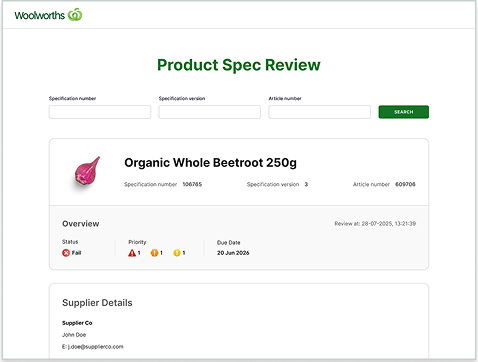
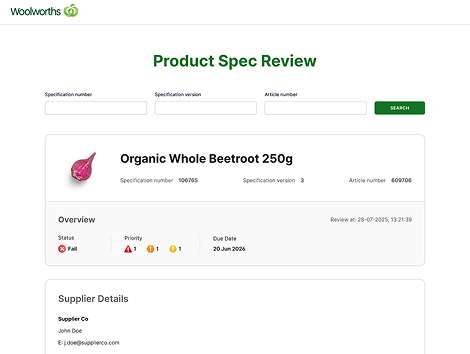
Internal Products 1

diff --git a/components/work/CaseStudyNav.tsx b/components/work/CaseStudyNav.tsx
@@ -12,23 +12,27 @@ type CaseStudyNavProps = {
 
 export default function CaseStudyNav({ items }: CaseStudyNavProps) {
   return (
-    <div className="fixed inset-x-4 bottom-6 z-50 flex justify-center md:bottom-8">
-      <nav className="no-scrollbar flex max-w-full snap-x snap-mandatory items-center gap-2 overflow-x-auto rounded-full border border-ink bg-ink p-2 shadow-lg">
-        <span
-          className="flex h-9 w-9 shrink-0 snap-start items-center justify-center rounded-full bg-white text-ink"
-          aria-hidden="true"
+    <div className="pointer-events-none fixed inset-x-0 bottom-0 z-50 flex justify-center px-4 pb-6 md:pb-8">
+      <nav className="pointer-events-auto flex max-w-full items-center gap-2 rounded-full border border-ink bg-ink p-2 shadow-lg">
+        <Link
+          href="/"
+          className="group flex h-9 w-9 shrink-0 items-center justify-center rounded-full bg-white text-ink"
+          aria-label="An Ny Lam — Home"
         >
           <Logo className="h-5 w-5" />
-        </span>
-        {items.map((item) => (
-          <Link
-            key={item.label}
-            href={item.href}
-            className="shrink-0 snap-start rounded-full border border-white/25 px-4 py-2 text-sm text-white transition-colors duration-200 hover:bg-white/10"
-          >
-            {item.label}
-          </Link>
-        ))}
+        </Link>
+
+        <div className="no-scrollbar flex min-w-0 shrink snap-x snap-mandatory items-center gap-2 overflow-x-auto">
+          {items.map((item) => (
+            <Link
+              key={item.label}
+              href={item.href}
+              className="shrink-0 snap-start rounded-full border border-white/25 px-4 py-2 text-sm text-white transition-colors duration-200 hover:bg-white/10"
+            >
+              {item.label}
+            </Link>
+          ))}
+        </div>
       </nav>
     </div>
   );

diff --git a/components/work/PlatformCard.tsx b/components/work/PlatformCard.tsx
@@ -11,7 +11,6 @@ type PlatformCardProps = {
   description: string;
   tags: string[];
   href: string;
-  showImageBorder?: boolean;
 };
 
 export default function PlatformCard({
@@ -23,19 +22,19 @@ export default function PlatformCard({
   description,
   tags,
   href,
-  showImageBorder = true,
 }: PlatformCardProps) {
   return (
-    <Link href={href} className="group block p-8">
-      <div
-        className={`overflow-hidden rounded-lg ${showImageBorder ? "border border-border" : ""}`}
-      >
+    <Link
+      href={href}
+      className="group flex h-full flex-col p-8 transition-colors duration-200 hover:bg-surface/60"
+    >
+      <div className="overflow-hidden rounded-lg border border-border">
         <Image
           src={image}
           alt={title}
           width={imageWidth}
           height={imageHeight}
-          className="w-full object-cover"
+          className="w-full object-cover transition-transform duration-500 ease-out group-hover:scale-[1.03]"
         />
       </div>
 
@@ -45,15 +44,19 @@ export default function PlatformCard({
       </h3>
       <p className="mt-3 text-body">{description}</p>
 
-      <div className="mt-5 flex flex-wrap gap-2.5">
-        {tags.map((tag) => (
-          <Tag key={tag}>{tag}</Tag>
-        ))}
-      </div>
+      <div className="mt-auto pt-5">
+        <div className="flex flex-wrap gap-2.5">
+          {tags.map((tag) => (
+            <Tag key={tag} variant="outline">
+              {tag}
+            </Tag>
+          ))}
+        </div>
 
-      <span className="mt-6 block text-center font-semibold text-teal transition-opacity duration-200 group-hover:opacity-80">
-        View product
-      </span>
+        <span className="mt-6 block text-center font-semibold text-teal transition-opacity duration-200 group-hover:opacity-80">
+          View product
+        </span>
+      </div>
     </Link>
   );
 }

diff --git a/components/ui/Tag.tsx b/components/ui/Tag.tsx
@@ -1,10 +1,15 @@
 type TagProps = {
   children: React.ReactNode;
+  variant?: "solid" | "outline";
 };
 
-export default function Tag({ children }: TagProps) {
+export default function Tag({ children, variant = "solid" }: TagProps) {
+  const background = variant === "solid" ? "bg-surface" : "bg-transparent";
+
   return (
-    <span className="inline-flex items-center rounded-md border border-border bg-surface px-3 py-1.5 text-[11px] font-semibold uppercase tracking-wider text-ink">
+    <span
+      className={`inline-flex items-center rounded-md border border-border ${background} px-3 py-1.5 text-[11px] font-semibold uppercase tracking-wider text-ink`}
+    >
       {children}
     </span>
   );

diff --git a/tailwind.config.ts b/tailwind.config.ts
@@ -35,9 +35,15 @@ const config: Config = {
           "0%": { opacity: "0", transform: "translateY(12px)" },
           "100%": { opacity: "1", transform: "translateY(0)" },
         },
+        logoPop: {
+          "0%": { transform: "translateY(0) scale(1) rotate(0deg)" },
+          "75%": { transform: "translateY(-2.6px) scale(1.055) rotate(-2.1deg)" },
+          "100%": { transform: "translateY(-2px) scale(1.04) rotate(-1.5deg)" },
+        },
       },
       animation: {
         fadeUp: "fadeUp 0.6s ease-out both",
+        "logo-pop": "logoPop 320ms cubic-bezier(0.22, 1, 0.36, 1) forwards",
       },
     },
   },

diff --git a/components/ui/Logo.tsx b/components/ui/Logo.tsx
@@ -8,7 +8,7 @@ export default function Logo({ className = "h-9 w-9" }: LogoProps) {
       viewBox="0 0 40 40"
       fill="none"
       xmlns="http://www.w3.org/2000/svg"
-      className={className}
+      className={`origin-center [transform:translateY(0)_scale(1)_rotate(0deg)] transition-transform duration-[320ms] ease-[cubic-bezier(0.22,1,0.36,1)] group-hover:animate-logo-pop group-focus-visible:animate-logo-pop ${className}`}
       aria-hidden="true"
     >
       <path

diff --git a/components/layout/SiteHeader.tsx b/components/layout/SiteHeader.tsx
@@ -18,7 +18,7 @@ export default function SiteHeader() {
   return (
     <header className="sticky top-0 z-50 border-b border-border bg-bg/95 backdrop-blur">
       <div className="container-content flex h-20 items-center justify-between md:h-24">
-        <Link href="/" className="text-ink" aria-label="An Ny Lam — Home">
+        <Link href="/" className="group text-ink" aria-label="An Ny Lam — Home">
           <Logo className="h-9 w-9" />
         </Link>
 

diff --git a/app/work/woolworths-internal-products/page.tsx b/app/work/woolworths-internal-products/page.tsx
@@ -48,13 +48,12 @@ const platforms = [
   {
     number: "03",
     image: "/images/work/woolworths-internal-products/product-03.png",
-    imageWidth: 478,
-    imageHeight: 362,
+    imageWidth: 470,
+    imageHeight: 354,
     title: "Compliance Review Platform",
     description: "Making AI-generated compliance reports understandable.",
     tags: ["Information Architecture"],
     href: "#project-03",
-    showImageBorder: false,
   },
 ];
 

diff --git a/components/layout/SiteFooter.tsx b/components/layout/SiteFooter.tsx
@@ -18,7 +18,7 @@ export default function SiteFooter() {
       <div className="container-content flex flex-col items-center gap-6 py-8 md:grid md:grid-cols-3 md:items-center md:gap-4">
         <Link
           href="/"
-          className="text-ink md:justify-self-start"
+          className="group text-ink md:justify-self-start"
           aria-label="An Ny Lam — Home"
         >
           <Logo className="h-7 w-7" />

diff --git a/components/work/IconCard.tsx b/components/work/IconCard.tsx
@@ -8,7 +8,7 @@ type IconCardProps = {
 
 export default function IconCard({ title, children, icon }: IconCardProps) {
   return (
-    <div className="border border-border p-8">
+    <div className="rounded-xl2 border border-border p-8">
       <div className="flex items-center gap-3">
         {icon && (
           <Image src={icon} alt="" width={24} height={24} aria-hidden="true" />

diff --git a/components/work/CaseStudyHero.tsx b/components/work/CaseStudyHero.tsx
@@ -61,7 +61,7 @@ export default function CaseStudyHero({
 
       <CaseStudyNav items={navItems} />
 
-      <div className="mt-10 flex gap-3 bg-black/[0.04] p-6 md:mt-14 md:p-8">
+      <div className="mt-10 flex gap-3 rounded-xl2 bg-black/[0.04] p-6 md:mt-14 md:p-8">
         <svg
           width="18"
           height="18"

diff --git a/CLAUDE.md b/CLAUDE.md
@@ -58,7 +58,19 @@ There is no test suite configured in this repo.
   `/about` and `/contact` nav links have no pages yet).
 - Use the `container-content` utility class (defined in `app/globals.css`) for
   page-width containers rather than re-deriving max-width/padding per section.
+  Case-study (`/work/*`) pages use `container-work` instead (same pattern, capped
+  at `max-w-6xl` to match that content column's measured width).
 - Respects `prefers-reduced-motion` globally (see `app/globals.css`).
+- **Border radius is a standing design-system rule, not a per-Figma-frame
+  choice.** Every card/block-style container (bordered content blocks, note/
+  disclaimer boxes, grid wrappers) gets rounded corners — `rounded-xl2` (20px)
+  for these bordered block containers, matching `ProjectGrid`'s wrapper. Image
+  treatments follow their own established radii (`rounded-2xl` for hero
+  banners, `rounded-xl`/`rounded-lg` for card thumbnails). If a Figma frame
+  shows a sharp-cornered block, round it anyway to match this system — this
+  applies to the not-yet-built case-study pages (Bunch, RealSwipe, Echo
+  Archive, Diamond Roofing, How the Body Remembers, HobbyLink) as much as to
+  what's already built.
 
 ## Content/assets
 
